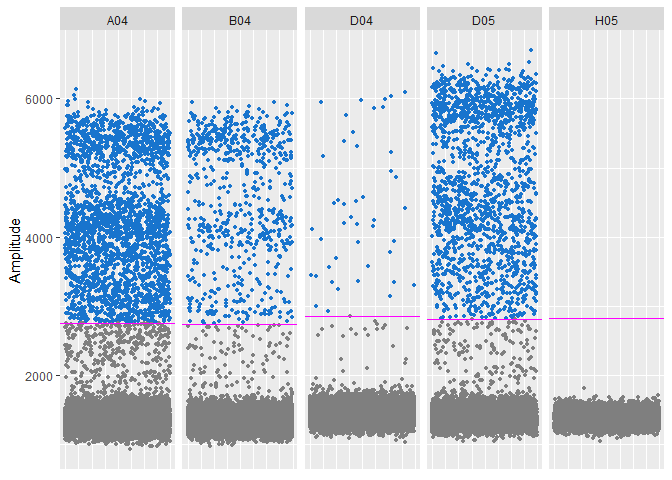
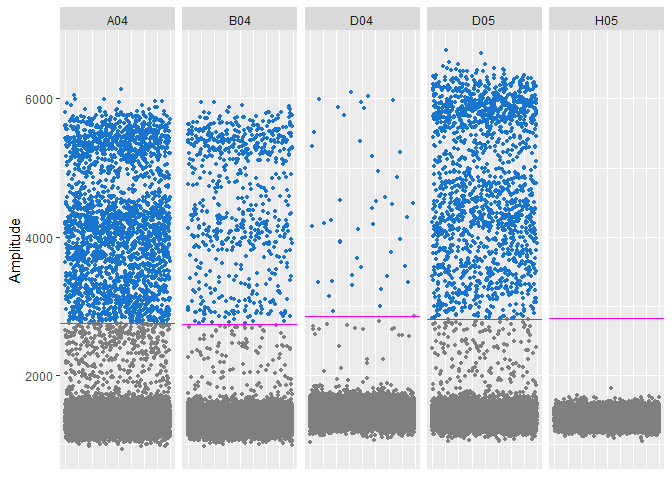
Added column to result table with info about what well was used as reference well.

diff --git a/README.md b/README.md
@@ -217,6 +217,22 @@ formula \(\dfrac{\text{c_target}}{\text{c_ctrl}}\cdot400\)
 Normalized concentration with single gene as control, calculated by the
 formula \(\dfrac{\text{c_target}}{\text{c_ctrl}}\cdot100\)
 
+### q
+
+The value used for Q
+
+### target\_assay
+
+The assay used for target channel, provided via sample sheet.
+
+### ctrl\_assay
+
+The assay used for control channel, provided via sample sheet.
+
+### ref\_well
+
+The well used as reference well for setting threshold.
+
 # PoDCall functions
 
 `podcallDdpcr()` is the main wrapper function that returns a table with
@@ -459,17 +475,17 @@ PoDCall is loaded, and is available as an object called `thrTable`. See
 ## The threshold table
 thrTable
 #>       sample_id thr_target thr_ctrl pos_dr_target pos_dr_ctrl tot_droplets
-#> A04      SW1463       2761     8750          2479       13190        18739
-#> B04       SW403       2739     8254           660        7789        16933
-#> D04       SW480       2863     8111            44        8509        11713
-#> D05 IVDZ_bisulf       2818     8095          1675        6823        12642
-#> H05         NTC       2823     7532             0          91        19638
-#>     c_target   c_ctrl c_norm_4Plex c_norm_sg q target_assay ctrl_assay
-#> A04  166.700 1430.000       46.630   11.6600 9          VIM   new4Plex
-#> B04   46.720  724.000       25.810    6.4530 9          VIM   new4Plex
-#> D04    4.423 1523.000        1.162    0.2904 9          VIM   new4Plex
-#> D05  167.000  911.700       73.270   18.3200 9          VIM   new4Plex
-#> H05    0.000    5.458        0.000    0.0000 9          VIM   new4Plex
+#> A04      SW1463       2761     9127          2479       12906        18739
+#> B04       SW403       2739     8632           660        7471        16933
+#> D04       SW480       2863     8489            44        8348        11713
+#> D05 IVDZ_bisulf       2818     8473          1675        6584        12642
+#> H05         NTC       2823     7910             0           0        19638
+#>     c_target c_ctrl c_norm_4Plex c_norm_sg q target_assay ctrl_assay ref_well
+#> A04  166.700 1371.0        48.64     12.16 9          VIM   new4Plex      A04
+#> B04   46.720  683.9        27.33     6.831 9          VIM   new4Plex      A04
+#> D04    4.423 1466.0        1.207    0.3017 9          VIM   new4Plex      A04
+#> D05  167.000  864.4        77.28     19.32 9          VIM   new4Plex      A04
+#> H05    0.000    0.0       No DNA    No DNA 9          VIM   new4Plex      A04
 ```
 
 # Session info
@@ -496,7 +512,7 @@ sessionInfo()
 #> [1] stats     graphics  grDevices utils     datasets  methods   base     
 #> 
 #> other attached packages:
-#> [1] PoDCall_1.1.3
+#> [1] PoDCall_1.1.4
 #> 
 #> loaded via a namespace (and not attached):
 #>  [1] Rcpp_1.0.5           highr_0.9            later_1.1.0.1       
